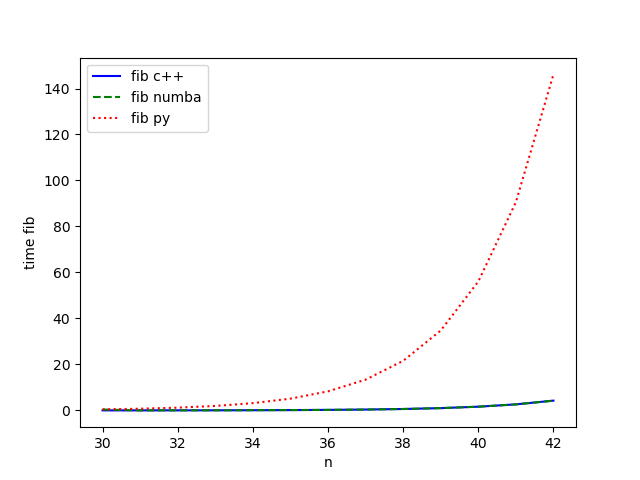
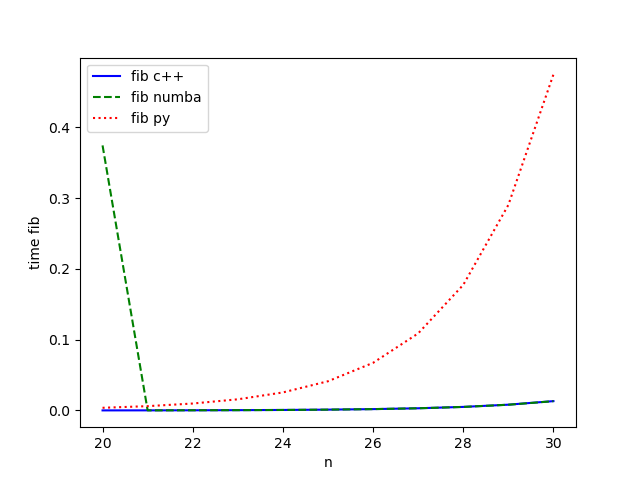
graph 20-30

diff --git a/MA4/MA4_files/MA4_2.py b/MA4/MA4_files/MA4_2.py
@@ -36,10 +36,12 @@ def main():
 
 
 	f = Person(1)
+	#f.setAge(47)
+	# print(f"fib(47) = {f.fib()}")
 	time_numba = []
 	time_fibpy = []
 	time_fibc = []
-	ns = [k for k in range(30, 43)]
+	ns = [k for k in range(20, 31)]
 	for n in ns:
 		time_numba.append(time_fib(fib_numba, n))
 		time_fibpy.append(time_fib(fib_py, n))
